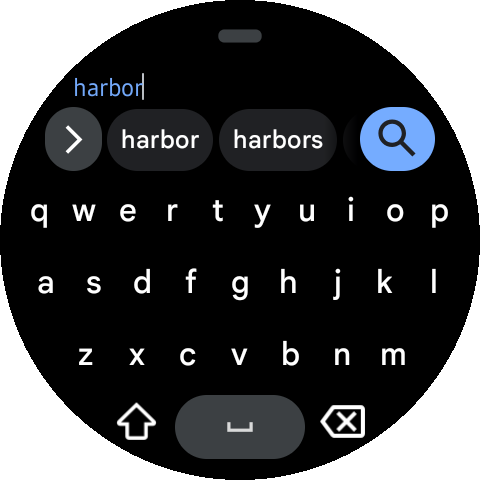
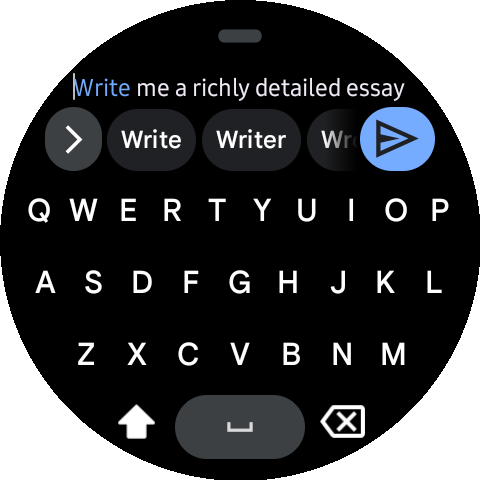
docs(demo): v0.8 re-shoot — chat, media-render and voice families
02b/03/04/05/06/07/12/16/25/26/27/29/33/34/37/38/40/56/57/58/59 re-captured
on the real watch against the live wear-demo world (two Harbor briefs +
aurora + mooring seeded; noise archived via the feature). All claims
rewritten pixel-true; the Voice-in family now carries its own claims
(56/57/58/59 were shipped in batch 9 ungated). Voice-out restored ON at
100% volume, gateway engine, Vosk model reinstalled after the remove/
download/installed capture loop.

diff --git a/tools/demo/vision_gate.py b/tools/demo/vision_gate.py
@@ -18,22 +18,22 @@ S = os.path.join(os.path.dirname(os.path.abspath(__file__)), "..", "..", "docs",
 CLAIMS = {
  "01-orb-cluster.png": "A watch home screen with a dark chat behind shows a circular avatar orb at the bottom-center (engraved black-haired girl portrait) ringed by small circular lane buttons, including a green checkmark, a keyboard, and a pink brain icon.",
  "02-chat-markdown.png": "A watch chat reply shows a paragraph in which the single word 'tide' is BOLD, above a four-item bulleted list with dot bullets about harbor conditions (Water level, Wind, Two slips, Fog).",
- "02b-chat-table.png": "A chat reply shows a markdown table: header row 'Day' and 'Water temp F', a rule under the headers, and aligned data rows Fri 61, Sat 60, Sun 59.",
- "03-image-card.png": "A watch chat screen shows a full-color photo of the aurora (green and purple northern lights above a snowy tree line) embedded inline as an image card within the conversation.",
- "04-viewer-zoom.png": "A full-screen image viewer shows an aurora photo filling the frame, with a circular X close chip at the top center and the caption 'aurora_borealis.png' at the bottom.",
- "05-mermaid.png": "A watch chat shows a white rectangular flowchart card containing three boxes labeled 'Watch', 'Gateway', 'watchkit' joined by arrows labeled 'stt' and 'render', under a user prompt line.",
- "06-ptt-overlay.png": "A push-to-talk overlay on a watch: a header reading 'Gateway · parakeet · text streaming', a mic chip with 'tap orb again · pause sends', transcribed text 'what is twelve times twelve on the wrist', a keyboard chip, and a red avatar orb below.",
- "07-stop-running.png": "A watch chat shows a live run: the user prompt 'count', a yellow 'thinking...' status line, and a red circular button containing a white stop-square glyph.",
+ "02b-chat-table.png": "A watch chat reply renders a markdown table titled 'Slips' with a header row 'Slip' and 'Depth', a rule under the headers, and data rows B-12 14m, B-14 12m, B-16 9m.",
+ "03-image-card.png": "A watch chat shows an inline image card rendering a bar chart titled '3-DAY WATER TEMP F' with three blue bars labelled Fri 61, Sat 60 and Sun 59.",
+ "04-viewer-zoom.png": "A full-screen image viewer shows an aurora photo (green and purple ribbons over a dark tree line) filling the frame, with a circular X close chip at the top center and the caption 'Aurora over the breakwater' at the bottom.",
+ "05-mermaid.png": "A watch chat reply shows a rendered diagram card with three light-colored nodes labelled 'Watch', 'Gateway' and 'watchkit' connected left-to-right by arrows.",
+ "06-ptt-overlay.png": "A voice-capture screen on the watch shows a microphone chip beside 'tap orb again · pause sends', a large live transcript word 'tide', a 'keyboard' escape pill, and a big red orb with the engraved girl portrait ringed in red at the bottom.",
+ "07-stop-running.png": "A watch chat shows a live run: a blue user prompt about writing four hundred words, a yellow 'thinking...' status line, and a red circular button containing a white stop-square glyph.",
  "08-sessions.png": "A Sessions screen titled 'Sessions · 30' with a search field, a row of filter chips, and session rows below.",
  "09-resumed.png": "A chat screen shows a blue user prompt containing 'sudo rm -rf /etc/apt' and an assistant reply beginning 'The call ran but Hermes blocked it', under a 'history · 2 messages' banner.",
  "10-settings-body.png": "A settings page titled 'Body tools' lists rows Heart rate, Steps & activity, Sleep, Blood oxygen, Location, each with a round toggle switched on (yellow).",
  "11-gateways.png": "A Gateways settings screen titled Gateways with '‹ all settings' shows the transport line 'wifi(wlan0) · validated', a selected gateway row whose name is a mosaic-blurred band with a filled radio, a 'harbor-lab' row with IP 192.168.10.99:8642 and a red ✕, a '+ add' button, and the 'Base URL (active)' editor label along the bottom.",
- "12-keyboard.png": "A watch search screen shows the system QWERTY keyboard with a query field containing 'harbor', suggestion chips 'harbor' and 'harbors', and a blue search button.",
+ "12-keyboard.png": "A watch prompt editor shows a draft line 'Write me a richly detailed essay' above the system QWERTY keyboard with suggestion chips and a blue send button.",
  "13-launcher-icon.png": "A smartwatch app grid where the top-left icon is a black-and-white engraved spirit girl portrait, next to a rocket-style icon and standard app icons.",
  "14a-fontscale-min.png": "One watch chat screen shows an entire exchange together: grey answer text containing 'ran clean (exit 0', a blue user prompt with 'echo wrist-offscreen-demo && date', a timestamp 'Sun Nov 1 05:12:35 PM EST 2026', a second blue prompt with 'sudo rm' followed by a pixelated path, and further grey answer text containing 'A terminal is required to authenticate'.",
  "14b-fontscale-max.png": "A watch chat screen rendered at very LARGE text: only a few short lines of an answer ('Done — rm -rf', 'ran clean (exit 0', 'the path no longer') fit on screen.",
  "15-settings-tail.png": "A settings list tail shows a 'Watch' row with subtitle mentioning 'Body tools' and notifications, and an 'About' row showing version text 'v0.7.0' with 'stt model' beneath.",
- "16-edit-resend.png": "A bottom sheet quotes the sent message 'count' and offers buttons: '✎ Edit & resend' (highlighted blue), 'Copy', and 'close'.",
+ "16-edit-resend.png": "A bottom sheet quotes the sent message 'Write me a richly detailed essay of at least 500…' and offers buttons: '✎ Edit & resend' (highlighted blue), 'Copy', and 'close'.",
  "17-agent-picker.png": "An agent list shows pill buttons for profiles: redridge-treasurer, research, resume-builder, squawkbox, wear, and 'wear-demo' highlighted in blue as selected.",
  "18-settings-home.png": "A screen titled Settings shows rows: '🌐 Gateways' with subtitle '2 saved · ✓' followed by a mosaic-blurred hostname, '🔊 Voice out' with subtitle 'on · 1.67×', and '🎙 Voice in'.",
  "19-settings-display.png": "A Display settings page scrolled down shows 'Launch splash' with a blue 'Video' chip beside a 'Static' chip, a blue 'Pick media' button, 'Media: built-in', 'Pinch text ×1.00' with 'pinch the chat to resize text', and an 'Orb dial — drag 8 ways' section with rows '12:00 keyboard' and mute.",
@@ -41,22 +41,22 @@ CLAIMS = {
  "22-session-sheet.png": "A sheet opened on the session row 'Design blog post writer agent' shows buttons: '⑂ fork & open' (blue), 'archive' with a box icon, 'delete…' in red, and 'close'.",
  "23-archived-chip.png": "A Sessions screen titled 'Sessions · 25' shows filter chips at top (all, computer, wear-dem, and an archived chip) above a row titled 'Marina log brief (smoke)'.",
  "24-unarchive.png": "A sheet on the archived session row 'Marina log brief (smoke)' shows buttons: '⑂ fork & open', green 'unarchive', red 'delete…', and 'close'.",
- "25-model-picker.png": "A picker titled 'Model' with subtitle 'on wear-demo · this chat only' lists 'default · Qwen3.8-Flash-Next-Unc…', a row 'SGLang Qwen3.8-Flash-Next-U…' on a blue highlighted background as the selected entry, and 'OpenRouter · 62'.",
+ "25-model-picker.png": "A picker titled 'Model' with subtitle 'on wear-demo · this chat only' lists 'default · Qwen3.8-Flash-Next-U…' on a blue highlighted background as the selected entry, a row 'SGLang Qwen3.8-Flash-Next-Unc…', and a row 'OpenRouter · 74'.",
  "26-model-picked.png": "A watch chat shows a grey pill-shaped toast floating over the conversation with a brain icon reading 'gpt-6-luna — this chat'.",
- "27-commands-overlay.png": "A commands overlay titled '⌘ commands' with a 'search or /text as prompt' field shows a '/compact' row marked 'prompt' and a 'SKILLS' section listing rows '/academic-paper', '/academic-paper-reviewer', '/academic-pipeline' each marked 'skill'.",
+ "27-commands-overlay.png": "A commands overlay titled 'commands' with a search field reading 'search or /text as prompt' lists slash-command rows including '/skills' with caption 'list this agent's skills' and '/new' with 'start a fresh chat', each tagged 'local' on the right.",
  "28-browser-opened.png": "A watch browser shows a GitHub repository page: breadcrumb 'borealBytes / hermes-wearos', tabs Code, Issues, Pull requests, Actions, More, a 'Public' chip, Notifications/Fork/Star buttons, and an About paragraph describing a Wear OS client for a self-hosted Hermes AI gateway.",
- "29-full-reply.png": "A watch chat shows a user request to write a VERY detailed 900-word essay about harbor lighthouses and the assistant reply beginning 'Final draft, 900 words on the nose. Here is the full essay: A harbor without a lighthouse…'.",
+ "29-full-reply.png": "A watch chat shows a long dense prose reply about harbor lanterns filling the screen, its closing sentence ending 'trimmed on the first dark evening.'",
  "30-settings-lane.png": "A dark home titled 'Ask Hermes — tap the orb to talk' shows the engraved avatar orb at the bottom-center surrounded by an open ring of circular lane buttons: green checkmark, keyboard, speaker, person, gear, list, and a brain icon.",
  "31-notify-plain.png": "A watch notification card shows a small spirit avatar with a badge, a title starting 'DEMO REQUEST (ignore br…' and body text 'Harbor lights on.' on a plain dark background.",
  "32-notify-approval.png": "An expanded watch notification shows the text 'Send the buyer reply to Hannah?' with '(draft ready)' and below it full-width pill buttons labeled 'Approve', 'Deny', and 'Open session'.",
  "33-approval-card.png": "A watch chat shows a pending approval: a yellow 'terminal…' chip with a wrench icon under the prompt text, and at the bottom three round buttons in a row: a green checkmark, a red-ringed orb with a white stop square, and a red X.",
- "34-approval-approved.png": "A watch chat shows a run that continued after approval: the assistant message 'Comfy is up on 8188. Let me check what models are available.' with a white typing-cursor block, and only the red stop orb remains at the bottom — no check or X buttons.",
+ "34-approval-approved.png": "A watch chat shows a run continuing after approval: a yellow 'running...' status line, no approve or deny buttons, and a plain round avatar orb at the bottom.",
  "35-splash-film.gif": "A circular-masked cinematic splash art frame: an antique silver pocket watch floating over dark blue night clouds and stars, its lid closed (the glow arrives later in the clip; the gate only sees frame zero).",
  "36-splash-picker.png": "A Display settings page ('‹ all settings', heading Display) shows 'Markdown rendering' toggled on, 'Launch splash' with the Video chip highlighted blue next to Static, a 'Pick media' button, and the caption 'Media: built-in'.",
- "37-voice-output.png": "A 'Voice out' settings page shows the '🔊 voice out' row with its toggle ON (yellow), a 'reply volume · wear-demo · 100%' slider, a 'quiet 0% ← loud 100% · per-agent' label, and a 'reply speed · 1.81×' slider above an 'engine' row.",
- "38-volume-db.png": "A voice-out settings page shows a 'reply volume · wear-demo · 35%' slider with a blue round handle at a low position, the 'quiet 0% ←→ loud 100% · per-agent' caption, and a 'reply speed · 1.81×' slider with slow 0.5× / fast 2.0× labels.",
+ "37-voice-output.png": "A 'Voice out' settings page shows the '🔊 voice out' row with its toggle ON (yellow), a 'reply volume · wear-demo · 95%' slider, a 'quiet 0% ← loud 100% · per-agent' label, and a 'reply speed · 1.01×' slider.",
+ "38-volume-db.png": "A voice-out settings page shows a 'reply volume · wear-demo · 25%' slider with a blue round handle at a low position, the 'quiet 0% ←→ loud 100% · per-agent' caption, and a 'reply speed · 1.01×' slider with slow 0.5× / fast 2.0× labels.",
  "39-karaoke-follow.png": "A watch chat filled with long prose (numbered paragraphs about a harbor dusk and night market) shows the avatar orb at the bottom ringed by a glowing red circle while the text scrolls to the sentence being spoken.",
- "40-stt-source.png": "A Voice-in settings page shows a gateway engine picker with three pill rows: a blue highlighted '★ gateway default · parakeet', a dark 'whisper · text streaming ✗ · final when you stop' row, and a dark 'parakeet · text streaming ✓' row.",
+ "40-stt-source.png": "A Voice-in settings page shows a gateway engine picker with three pill rows: a dark '★ gateway default · parakeet', a dark 'whisper · text streaming ✗ · final when you stop' row, and a blue-highlighted 'parakeet · text streaming ✓' row.",
  "41-edge-circle-pair.png": "Two round watch frames of a 'Chats · wear-demo' list side by side: the left frame labeled 'BEFORE — LIST TOP' shows the header, a '＋ new' button and the row 'Generate Aurora Borealis photo v…'; the right frame labeled 'AFTER ONE RIM DRAG' has scrolled down so the header and new button are off-screen and 'Generate Aurora Borealis photo v…' now sits at the very top with several lower rows visible.",
  "42-gateways-multi.png": "A Gateways page shows the transport line 'wifi(wlan0) · validated', a selected row (filled radio, mosaic-blurred hostname, green dot, blurred IP ending 642) with a pencil and a red ✕, and below it a 'harbor-lab' row with a pencil, red ✕ and IP 192.168.10.99:8642.",
  "43-agent-keys.png": "A list of agent profile rows (perplexity-archive, redridge-treasurer, research, resume-builder, squawkbox, wear, wear-demo) each shows a green '✓ key' badge on the right edge.",
@@ -71,6 +71,10 @@ CLAIMS = {
  "52-audio-player.png": "A full-screen audio player sheet shows a large white circular play button, a music-note glyph with the label 'tone.opus' beneath it, and a white progress/transport bar at the bottom.",
  "53-handoff-adopted.png": "A watch chat shows a small orange line reading '2 messages · from' near the top, then a blue user prompt 'Gate code for the Saturday walkthrough is ORCHID. Note it.', a grey reply 'Gate code noted: ORCHID.', a second blue prompt 'What is the gate code? Answer in exactly one word.', and the answer 'ORCHID' with the spirit avatar.",
  "54-tool-activity.png": "A watch chat shows a user request to answer with the kernel release, a collapsible activity card row reading '1 step · done' with an expand affordance and a listed command line containing 'uname -r', and below it the white answer 'The kernel release is 7.0.0-38-generic.'.",
+ "56-voicein-picker.png": "A Voice-in settings page shows three source pills: 'Local Vosk · offline · on-watch', 'System · OFF-DEVICE · Google', and a blue-highlighted 'Gateway · streaming · parakeet · auto-local' row with 'text streaming' checked below.",
+ "57-voicein-not-installed.png": "A Voice-in settings page shows the offline model section reporting the model missing or not installed below the gateway engine pills.",
+ "58-voicein-downloading.png": "A Voice-in settings page shows the offline model row mid-install reading 'downloading 39% · 16 MB of 41 MB' below the gateway engine pills.",
+ "59-voicein-installed.png": "A Voice-in settings page shows the offline model section reading 'installed · works offline' below the gateway engine pills.",
  "55-tailnet-status.png": "A Tailnet page titled Tailnet with '‹ gateways' shows a 'Status' heading, a green 'tailnet up' line whose FQDN is a mosaic-blurred band, a green '.net · gateway' line ending 'online' with a blurred IP, and a node section whose name line is blurred, with the loopback port number visible.",
 }
 
